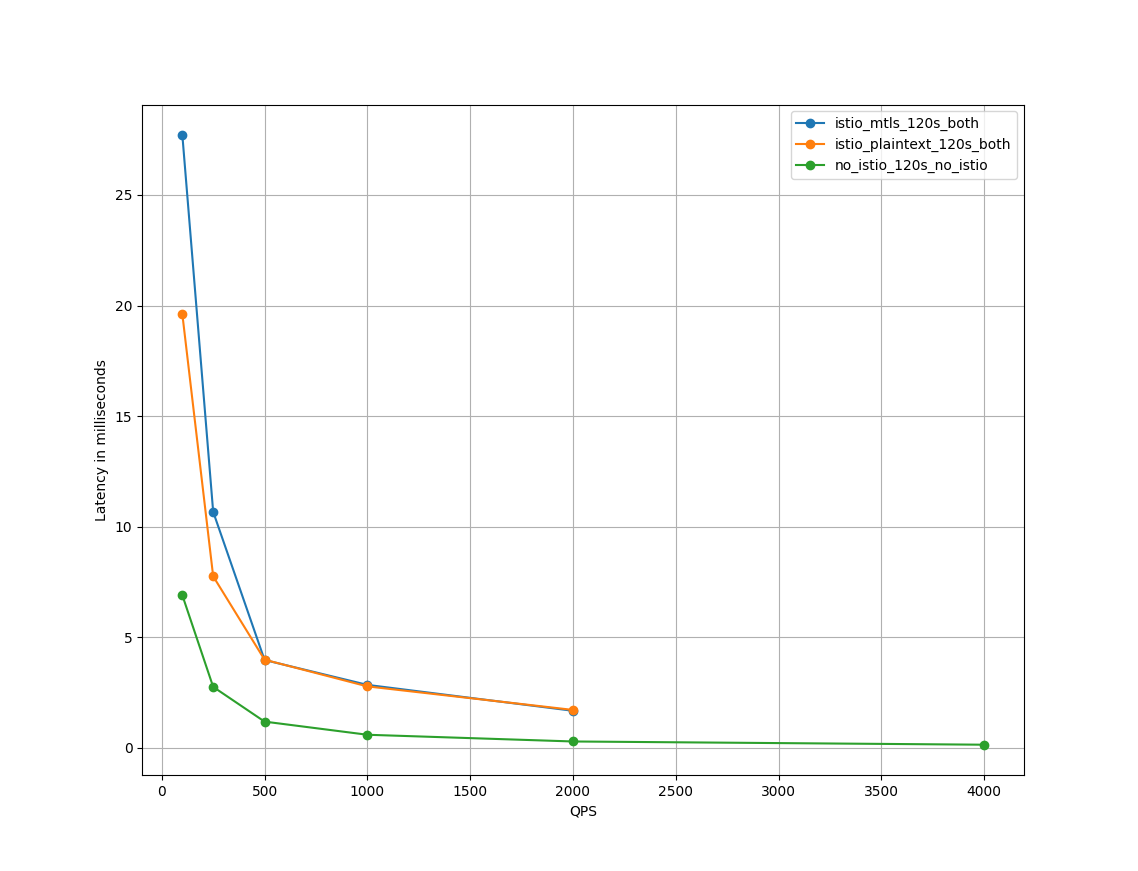
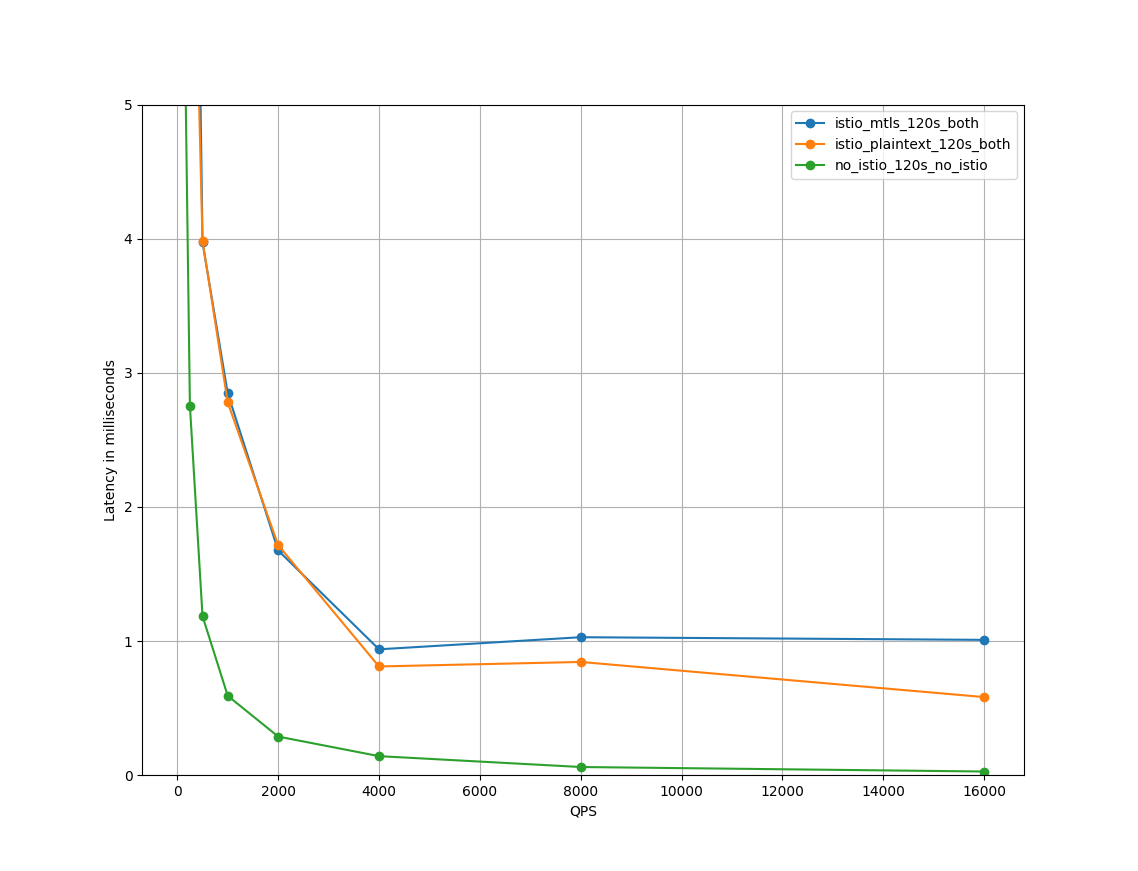
update cpu_mem figures update graph_plotter.py to use real qps values

diff --git a/perf/benchmark/graph_plotter/graph_plotter.py b/perf/benchmark/graph_plotter/graph_plotter.py
@@ -41,7 +41,7 @@ def plotter(args):
     fig = plt.figure(figsize=(1138 / dpi, 871 / dpi), dpi=dpi)
     ax = fig.add_subplot(111)
     # default ylim doesn't show points
-    # ax.set_ylim(0, 1.0)
+    ax.set_ylim(0, 5.0)
     for key, val in telemetry_modes_y_data.items():
         plot_key = key
         match key:
@@ -50,9 +50,9 @@ def plotter(args):
             case "istio_with_stats_both":
                 plot_key = "istio_with_stats"
         plt.plot(args.query_list, val, marker='o', label=plot_key)
-        for i, j in zip(args.query_list, val):
+        # for i, j in zip(args.query_list, val):
             # ax.annotate(str(j), xy=(i, j))
-            print("i=%x,j=%x,args.querylist=%x,val=%x,key=%x", i, j, args.query_list, val, key)
+            # print("i=%x,j=%x,args.querylist=%x,val=%x,key=%x", i, j, args.query_list, val, key)
 
     plt.xlabel(get_x_label(args))
     plt.ylabel(get_y_label(args))
@@ -102,9 +102,15 @@ def get_metric_name(args):
 
 def get_data_helper(df, query_list, query_str, telemetry_mode, metric_name):
     y_series_data = []
+    # print("query_list=", query_list)
+    # print("query_str=", query_str)
+    # print("metric_name=", metric_name) 
 
+    prev = -1
     for ql in query_list:
         data = df.query(query_str)
+        # print(f"queried for ql={ql}, telemetry_mode={telemetry_mode}")
+        # print(f"size of data={data.shape}")
         try:
             data[metric_name].head().empty
         except KeyError as e:
@@ -115,9 +121,32 @@ def get_data_helper(df, query_list, query_str, telemetry_mode, metric_name):
                     y_series_data.append(data[metric_name].head(1).values[0])
                 else:
                     y_series_data.append(data[metric_name].head(1).values[0] / data["ActualQPS"].head(1).values[0])
+                
+                prev = data["ActualQPS"].head(1).values[0]
             else:
-                y_series_data.append(None)
+                # when nocatchup+uniform is true and the service can't keep up
+                # the actual qps doesn't reach the target qps leading to empty data
+                if prev != -1 and "ActualQPS==@ql and " in query_str:
+                    
+                    new_query_str = query_str.replace("ActualQPS==@ql and ", "")
+                    new_df = df.query(new_query_str)
+                    sorted_df = new_df.sort_values("ActualQPS")
+                    new_data = sorted_df[sorted_df["ActualQPS"] > prev]
 
+                    # print(f"next_row={new_data}")
+                    if not new_data.head().empty:
+                        prev = new_data["ActualQPS"].head(1).values[0]
+                        # print(f"queried for ql={ql}, telemetry_mode={telemetry_mode}, query_str={query_str}")
+                        # print(f"latency={new_data[metric_name].head(1).values[0]}, qps={new_data['ActualQPS'].head(1).values[0]}")
+                        # print(f"y_series_data={new_data[metric_name].head(1).values[0] / new_data['ActualQPS'].head(1).values[0]} with actual qps")
+                        y_series_data.append(new_data[metric_name].head(1).values[0] / new_data["ActualQPS"].head(1).values[0])
+                        # print(f"y_series_data={new_data[metric_name].head(1).values[0] / ql} with ql")
+                        # y_series_data.append(new_data[metric_name].head(1).values[0] / ql)
+                    else: 
+                        y_series_data.append(None)
+                else:
+                    y_series_data.append(None)
+                
     return y_series_data
 
 
